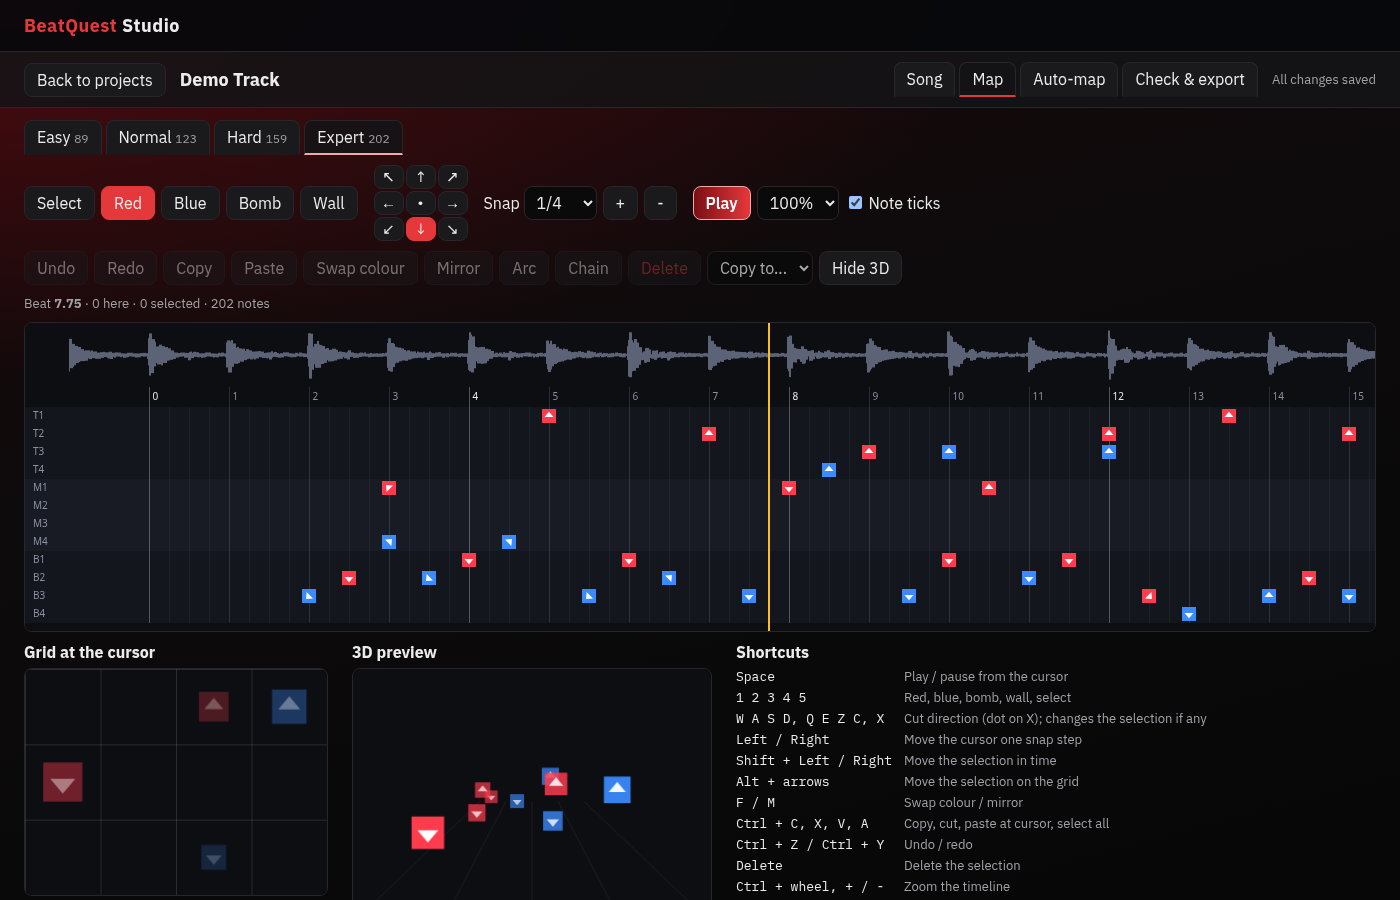
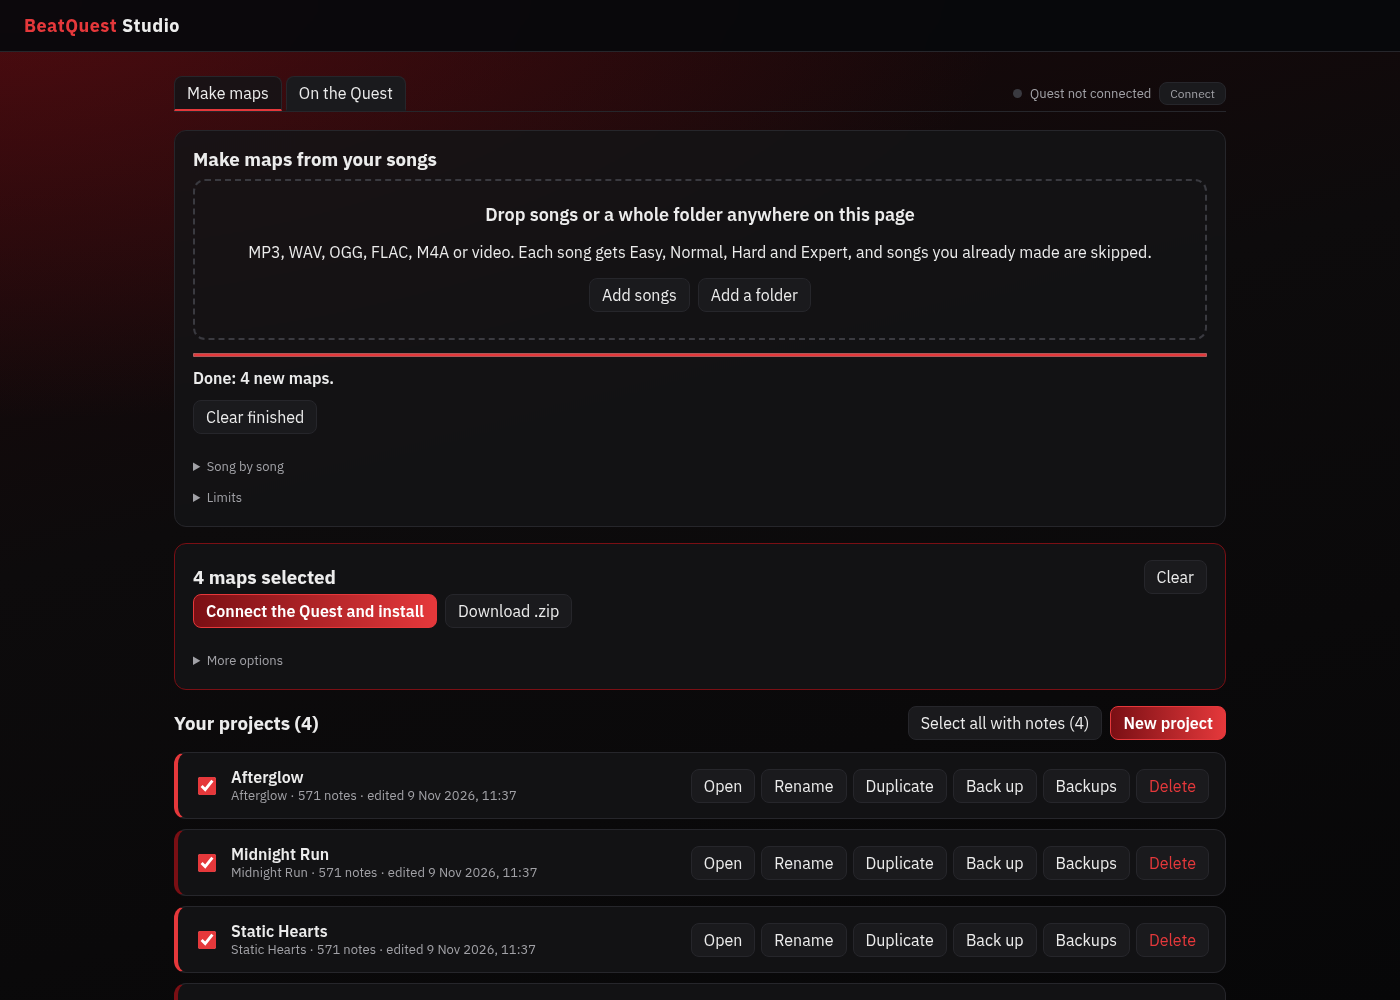
docs(readme): lead with the dashboard screenshot
The front-page image is now the dashboard, which is what changed most in
1.2: the tabs, the drop zone, the one-sentence batch result and the single
install button. The map editor screenshot moves under Making a map so both
are shown.

diff --git a/README.md b/README.md
@@ -12,7 +12,7 @@
 
 </div>
 
-![The map editor: four difficulty tabs, the lane timeline over the waveform, the cell grid and the 3D preview](screenshot.png)
+![The dashboard: drop songs, see what was made, and install the maps on the Quest in one click](screenshot.png)
 
 ---
 
@@ -76,6 +76,8 @@ server (see [Hosting](#hosting)). Or run it from source:
 ---
 
 ## Making a map
+
+![The map editor: four difficulty tabs, the lane timeline over the waveform, the cell grid and the 3D preview](screenshot-editor.png)
 
 1. **New project**, then on the **Song** tab choose a song or video.
 2. Check the **Beat grid**. "Play with beat clicks" plays the song with a tick
